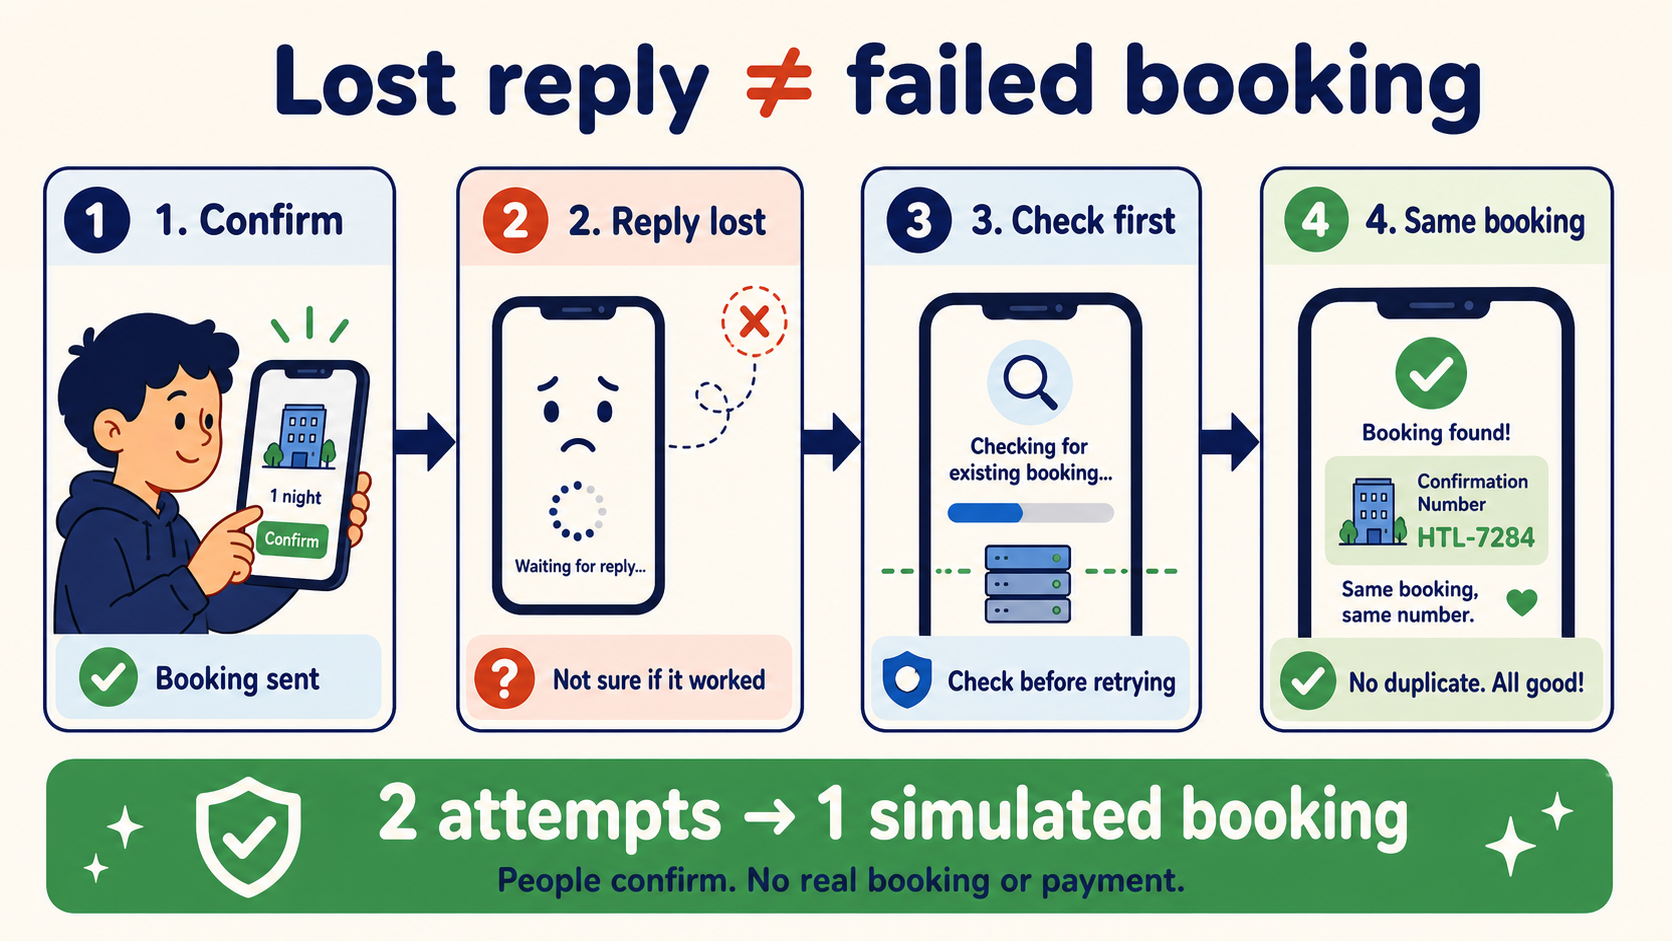
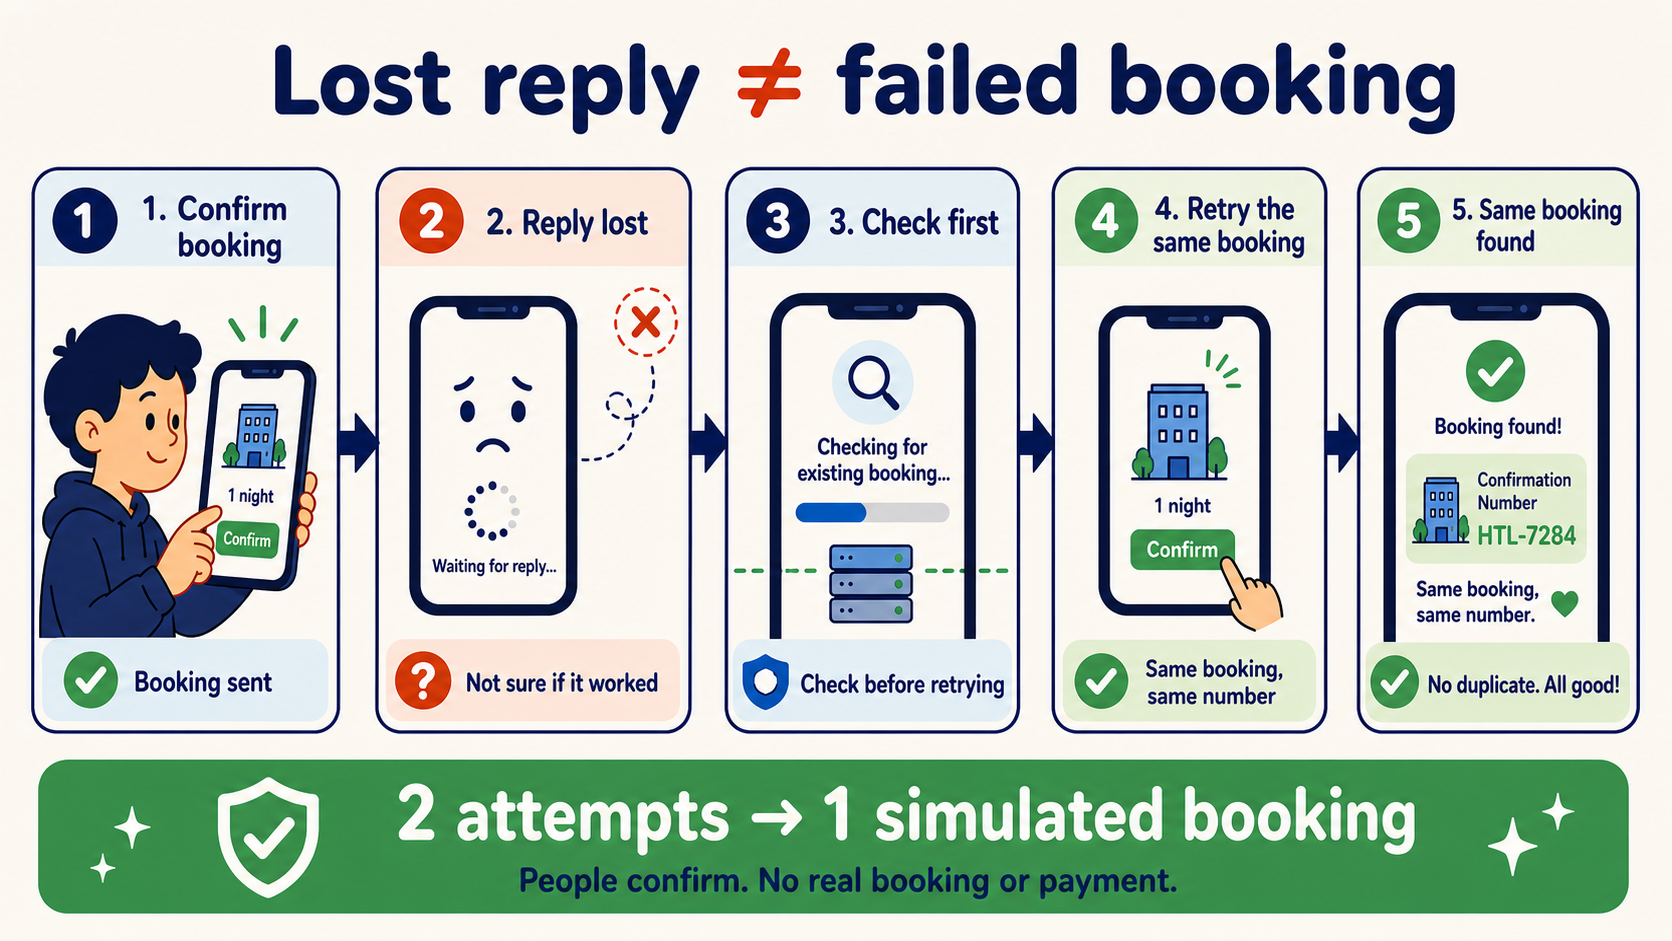
fix: package and explain the beginner retry guide (#247)
Package both retry diagrams and bind the beginner guide to its current provenance.

diff --git a/README.md b/README.md
@@ -50,14 +50,14 @@ status: "design-specification"
 
 **60-second test:** **1. Check and prepare** → **2. Confirm booking — human action only** → **Retry the same booking** → verify `RETRY_RECOGNIZED`, attempts `2`, bookings `1`, effect starts `1`, and the same confirmation number.
 
-### 中学生向けの4段階図 / Four-step beginner guide
+### 中学生向けの5段階図 / Five-step beginner guide
 
 <!-- information_uuid_v5=9814fe28-d4ee-5cdc-b331-e6f56c05e54d -->
-<!-- event_uuid_v7=01a056a4-8d6b-77e6-bd97-41deb529abd3 state_transition=IMAGE_GENERATED -> IMAGE_INSPECTED -> README_PLACED occurred_at=2026-08-31T07:06:41.232Z -->
-<!-- machine-contract=This generated image is an explanatory, fictional, non-measured guide; it shows status-first reconciliation and one simulated booking, with no real booking or payment. provenance_record=metadata/hotel-retry-student-guide.json; image_gen_invocations=1; sha256=b03628c1990b7ad8d1ea3a32b421f6828abb37a2fdcafb6462a9eef518750c82. -->
-![Four-step beginner guide: a lost reply is checked before retrying, and the same simulated booking is found / 中学生向け4段階図：返事が消えても先に状態を確認し、同じ架空予約を見つける](docs/assets/hotel-retry-student-guide.png)
+<!-- event_uuid_v7=01a056be-90df-77a6-afde-13eaa26eae09 state_transition=IMAGE_EDITED_FOR_RETRY_ACTION -> IMAGE_INSPECTED -> README_PLACED occurred_at=2026-08-31T07:35:24.639Z -->
+<!-- machine-contract=This generated image is an explanatory, fictional, non-measured guide; it shows status-first reconciliation, an explicit retry action, and one simulated booking, with no real booking or payment. provenance_record=metadata/hotel-retry-student-guide.json; image_gen_invocations=2; sha256=0386b31bab6786ca47730fed8d2adba80263758e158d11dcec339a034ceacd32; -->
+![Five-step beginner guide: a lost reply is checked, the same booking is retried, and the same simulated booking is found / 中学生向け5段階図：返事が消えても状態を確認し、同じ予約を再試行して同じ架空予約を見つける](docs/assets/hotel-retry-student-guide.png)
 
-この図は、返事が消えたときにすぐ再送せず、まず同じ予約があるかを確認する流れを示します。架空デモの説明であり、実際の予約や支払いではありません。 / This is a fictional explanation, not a real booking or payment.
+この図は、返事が消えたときに状態を確認し、同じ予約を再試行してから同じ架空予約を見つける流れを示します。架空デモの説明であり、実際の予約や支払いではありません。 / This is a fictional explanation, not a real booking or payment.
 
 **Open:** [Public ChatGPT Site](https://kyoto-booking-retry-proof.anionix.chatgpt.site) · [2-minute-30-second video](https://youtu.be/tdSvJw4ghX8) · [Devpost](https://devpost.com/software/project-y79pb23hj1mz) · [Current Vercel release](https://kyoto-booking-retry-proof.vercel.app) · [Release README](examples/hotel-booking-demo/README.md) · [Visual guide](docs/25-devpost-visual-guide.en.md) · [Release instructions](docs/24-hotel-release-package.ja.md)
 

diff --git a/examples/hotel-booking-demo/README.md b/examples/hotel-booking-demo/README.md
@@ -22,14 +22,14 @@ Current public alignment: the submitted ChatGPT Site is version 14 from source `
 
 通信が切れて成功表示だけ消えたとき、同じ京都旅館の予約を再送しても一件に戻る架空デモです。WebMCPは確認・準備・状態取得・取消条件の表示だけを行い、確定は画面上の人間だけが押せます。個人情報、決済、実ホテル、メール、外部予約、実際の取消はありません。
 
-## 中学生向けの4段階図 / Four-step beginner guide
+## 中学生向けの5段階図 / Five-step beginner guide
 
 <!-- information_uuid_v5=9814fe28-d4ee-5cdc-b331-e6f56c05e54d -->
-<!-- event_uuid_v7=01a056a4-8d6b-77e6-bd97-41deb529abd3 state_transition=IMAGE_GENERATED -> IMAGE_INSPECTED -> README_PLACED occurred_at=2026-08-31T07:06:41.232Z -->
-<!-- machine-contract=This generated image is an explanatory, fictional, non-measured guide; it shows status-first reconciliation and one simulated booking, with no real booking or payment. provenance_record=metadata/hotel-retry-student-guide.json; image_gen_invocations=1; sha256=b03628c1990b7ad8d1ea3a32b421f6828abb37a2fdcafb6462a9eef518750c82. -->
-![Four-step beginner guide: a lost reply is checked before retrying, and the same simulated booking is found / 中学生向け4段階図：返事が消えても先に状態を確認し、同じ架空予約を見つける](../../docs/assets/hotel-retry-student-guide.png)
+<!-- event_uuid_v7=01a056be-90df-77a6-afde-13eaa26eae09 state_transition=IMAGE_EDITED_FOR_RETRY_ACTION -> IMAGE_INSPECTED -> README_PLACED occurred_at=2026-08-31T07:35:24.639Z -->
+<!-- machine-contract=This generated image is an explanatory, fictional, non-measured guide; it shows status-first reconciliation, an explicit retry action, and one simulated booking, with no real booking or payment. provenance_record=metadata/hotel-retry-student-guide.json; image_gen_invocations=2; sha256=0386b31bab6786ca47730fed8d2adba80263758e158d11dcec339a034ceacd32; -->
+![Five-step beginner guide: a lost reply is checked, the same booking is retried, and the same simulated booking is found / 中学生向け5段階図：返事が消えても状態を確認し、同じ予約を再試行して同じ架空予約を見つける](../../docs/assets/hotel-retry-student-guide.png)
 
-返事が消えても、すぐに二回目を作りません。先に状態を調べて、同じ架空予約を見つけます。 / A lost reply is reconciled before retrying; the result remains one simulated booking.
+返事が消えても、先に状態を調べ、同じ予約を再試行して同じ架空予約を見つけます。 / A lost reply is reconciled before the same booking is retried; the result remains one simulated booking.
 
 <!-- information_uuid_v5=17898066-d1e0-50f3-96c7-e30c23316f5a -->
 <!-- event_uuid_v7=01a0539e-63c4-7a72-a39b-276bbe0b7d37 state_transition=IMAGE_GENERATED_ONCE -> SOURCE_SHA256_CAPTURED -> README_ASSET_COPIED occurred_at=2026-08-30T17:01:24.292Z -->
